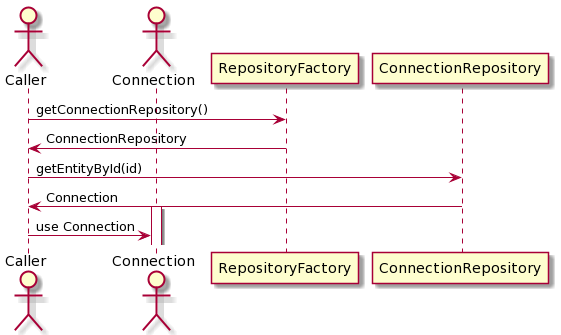
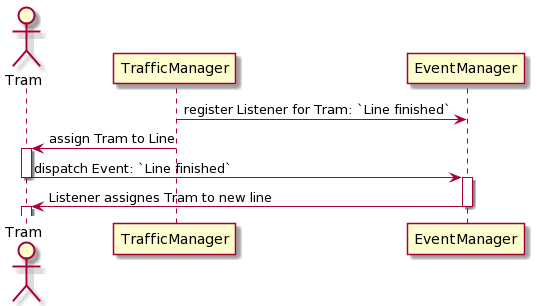
fixed typo in uml diagram (and text)

Changed region(s): [[0.0, 0.0, 1.0, 1.0], [0.0, 0.7353, 0.0894, 0.9706], [0.0, 0.9706, 0.0298, 1.0]]

diff --git a/readme_assets/plantumlTextDiagrams.md b/readme_assets/plantumlTextDiagrams.md
@@ -7,10 +7,10 @@ Paste the contents with `@startuml` and `@enduml` into the textarea and click on
 ```plantuml
 @startuml
     actor Tram
-    TrafficManager -> EventManager : register Listener for Tram: `Line finsihed`
+    TrafficManager -> EventManager : register Listener for Tram: `Line finished`
     TrafficManager -> Tram : assign Tram to Line
     activate Tram
-    Tram -> EventManager : dispatch Event: `Line finsihed`
+    Tram -> EventManager : dispatch Event: `Line finished`
     deactivate Tram
     activate EventManager
     EventManager -> Tram : Listener assignes Tram to new line
